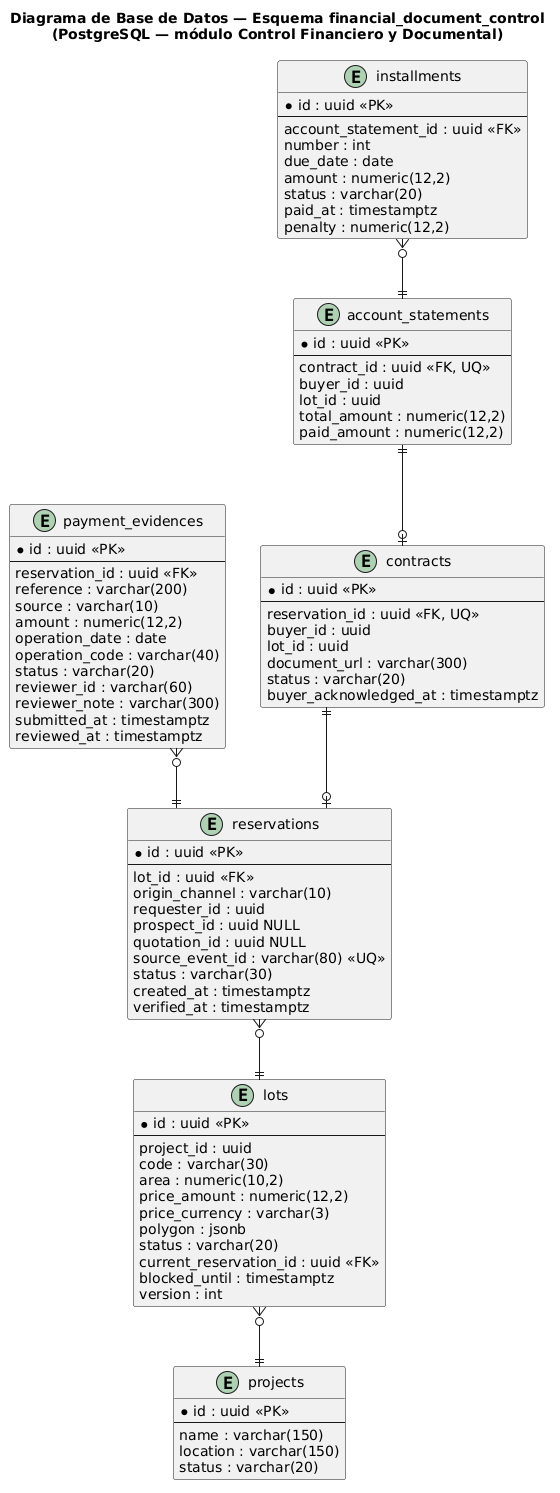
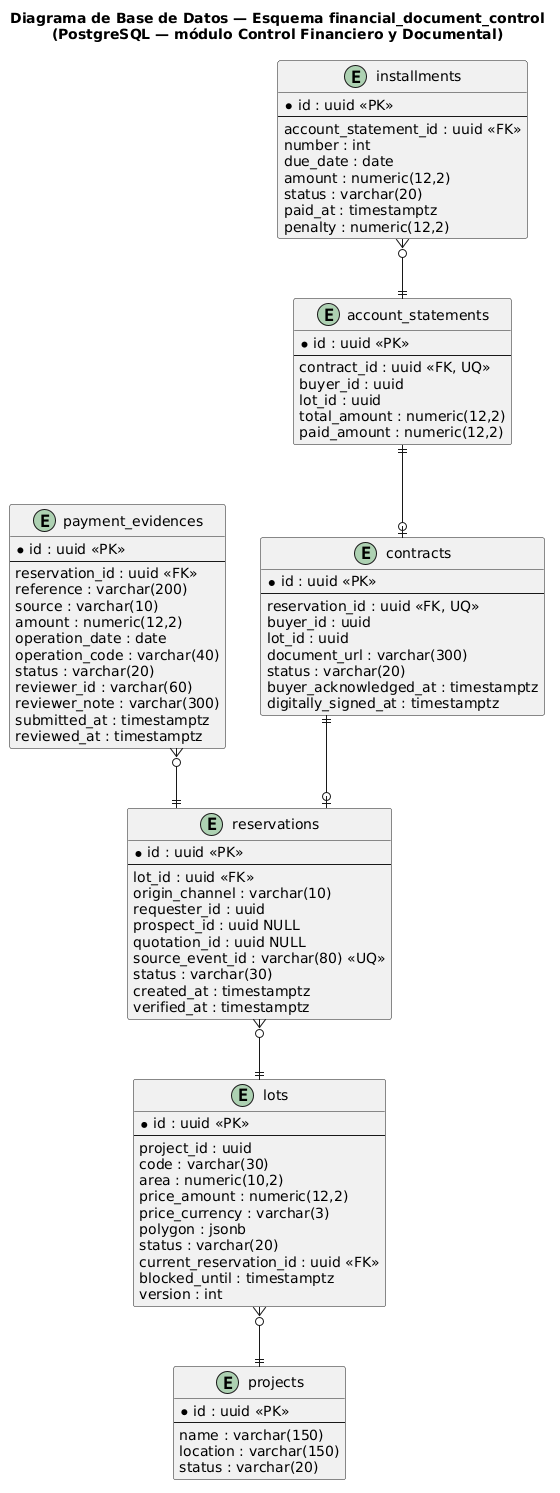
fix(chapter-02): separate preliminary buyer acknowledgment from qualified digital signature and add preventive due-date alert

Changed region(s): [[0.4554, 0.3389, 0.9714, 0.493]]

diff --git a/docs/Chapter-02.md b/docs/Chapter-02.md
@@ -910,7 +910,7 @@ Para organizar el alcance del sistema, las historias se han clasificado en las s
       <i>Escenario 2: Lote cancelado al 100%.</i><br><br>
       <b>Dado que</b> el usuario ha finalizado de pagar todas sus cuotas,<br>
       <b>Cuando</b> revisa su estado de cuenta,<br>
-      <b>Entonces</b> el sistema expone un indicador de saldo "0.00", llena el gráfico al 100% y cambia el estado del lote a "Cancelado".
+      <b>Entonces</b> el sistema expone un indicador de saldo "0.00", llena el gráfico al 100% y marca el estado de cuenta como "Liquidado" (la disponibilidad comercial del lote permanece en `SOLD`; la liquidación es un atributo del estado de cuenta, no del inventario).
   </td></tr>
 </table>
 
@@ -2453,7 +2453,7 @@ Su modelo gira en torno al agregado `Voucher`. Este agregado representa la evide
 | **VoucherCapturedEvent**, **OcrExtractionFailedEvent** | Domain Event | Hechos que el canal móvil registra. Disparan notificaciones en la UI para solicitar la intervención del agente si el OCR falla. | Identificadores del voucher, scores de confianza y fechas. |
 | **VoucherSyncedEvent** | Domain Event | Confirma que la evidencia, sin importar su canal de origen, está disponible en el servidor para verificación financiera, con los datos completos que Control Financiero y Documental necesita para contrastarla. Es el evento que consume `PaymentEvidenceReceivedEventHandler`. | Identificador del voucher, `operationId`, `channel`, `amount`, `operationDate`, `operationCode` y fecha. |
 
-Las reglas de negocio del canal FIELD se concentran en `Voucher.processOcr()`. Al invocar este método, se evalúa el `confidenceScore` retornado por el servicio de dominio OCR. Si la confianza es alta, el estado cambia a `EXTRACTED`. Si la foto es borrosa o el contraste es bajo (confianza menor al umbral), el estado cambia a `MANUAL_REVIEW_NEEDED`, lo que obliga al agente a invocar `applyManualFallback()` para sobrescribir los datos, añadiendo una bandera de auditoría que indica que los datos fueron alterados por intervención humana. El canal WEB no pasa por OCR: `Voucher.createFromWeb()` deja la evidencia directamente en `SYNCED`, porque el archivo ya llega digitalizado desde el portal y su verificación de contenido es responsabilidad de Control Financiero y Documental, no de este contexto.
+Las reglas de negocio del canal FIELD se concentran en `Voucher.processOcr()`. Al invocar este método, se evalúa el `confidenceScore` retornado por el servicio de dominio OCR. Si la confianza es alta, el estado cambia a `EXTRACTED`. Si la foto es borrosa o el contraste es bajo (confianza menor al umbral), el estado cambia a `MANUAL_REVIEW_NEEDED`, lo que obliga al agente a invocar `applyManualFallback()` para completar los datos manualmente (US-09). `applyManualFallback()` también puede invocarse sobre un voucher ya `EXTRACTED`, cuando el agente detecta que el OCR leyó mal un dígito pese a que la imagen era legible (US-10): en ambos casos se añade la misma bandera de auditoría que indica que los datos fueron alterados por intervención humana, distinguiendo así una recaptura por imagen ilegible de una simple corrección sobre una extracción exitosa. El canal WEB no pasa por OCR: `Voucher.createFromWeb()` deja la evidencia directamente en `SYNCED`, porque el archivo ya llega digitalizado desde el portal y su verificación de contenido es responsabilidad de Control Financiero y Documental, no de este contexto.
 
 #### 2.6.2.2. Interface Layer
 
@@ -2479,7 +2479,7 @@ En el móvil, la capa de aplicación coordina la captura, la invocación de la I
 | Clase | Tipo | Responsabilidad |
 | :--- | :--- | :--- |
 | **ProcessVoucherCommandHandler** | Command Handler | `handle(ProcessVoucherCommand)`: Valida la imagen, crea el agregado `Voucher`, invoca el servicio de compresión y dispara el procesamiento OCR local, persistiendo el resultado final. |
-| **ApplyFallbackCommandHandler** | Command Handler | `handle(ApplyFallbackCommand)`: Recupera un voucher en estado `MANUAL_REVIEW_NEEDED`, aplica los datos manuales del agente y lo deja listo para sincronizar. |
+| **ApplyFallbackCommandHandler** | Command Handler | `handle(ApplyFallbackCommand)`: Recupera un voucher en estado `MANUAL_REVIEW_NEEDED` o `EXTRACTED` —el primero cuando el OCR no pudo leer la imagen (confianza baja), el segundo cuando sí extrajo datos pero el agente detecta un dígito erróneo (US-10)—, aplica los datos manuales del agente, agrega la bandera de auditoría y lo deja listo para sincronizar.
 | **ImageUploadSyncService** | App Service | Servicio en segundo plano que escucha la recuperación de red. Para cada voucher local en `SYNCED` (ya procesado por OCR o corregido manualmente), sube la imagen comprimida a S3 mediante URL pre-firmada o *multipart/form-data*, y luego envía sus metadatos (`amount`, `operationDate`, `operationCode`, la referencia del archivo y si fue corregido manualmente) en un solo lote a `FieldVoucherSyncController`, consistente con el envío por lotes de US-32. |
 | **VoucherCapturedEventHandler** | Event Handler | Escucha el evento de creación local e instruye a la interfaz gráfica a mostrar el loader de "Extrayendo datos...". |
 | **ReceiveWebVoucherCommandHandler** | Command Handler | `handle(ReceiveWebVoucherCommand)`: crea el `Voucher` mediante `createFromWeb` con los datos declarados por el comprador, lo persiste en PostgreSQL y publica `VoucherSyncedEvent`. |
@@ -2583,7 +2583,7 @@ Cotización y Separación Digital es un contexto de soporte orientado al autoser
       <td><b>LotSnapshot</b></td>
       <td>Value Object</td>
       <td>Copia de solo lectura de los datos del lote y del proyecto, obtenida desde Control Financiero y Documental para exhibir el catálogo o correr una simulación. No es la fuente de verdad de la disponibilidad.</td>
-      <td>lotId, projectId, code, area, price, location, availableAtQueryTime.</td>
+      <td>lotId, projectId, code, area, price, location, availableAtQueryTime, isSold.</td>
     </tr>
     <tr>
       <td><b>SeparationStatus</b></td>
@@ -2687,7 +2687,7 @@ Las reglas de negocio del canvas quedan repartidas así: el rechazo de una cuota
     <tr>
       <td><b>CatalogQueryServiceImpl</b></td>
       <td>Query Service</td>
-      <td>Resuelve GetProjectsQuery y GetLotsQuery leyendo LotSnapshot a través de LotAvailabilityService; marca como "Vendido Totalmente" un proyecto cuando el 100% de sus lotes no está disponible.</td>
+      <td>Resuelve GetProjectsQuery y GetLotsQuery leyendo LotSnapshot a través de LotAvailabilityService; marca como "Vendido Totalmente" un proyecto solo cuando el 100% de sus lotes tiene `isSold = true` (US-15), distinguiendo esa condición de la disponibilidad general: un proyecto con lotes `BLOCKED` o `PENDING_VERIFICATION` sigue sin aparecer como agotado, porque esas separaciones aún pueden caer y liberar el lote.</td>
     </tr>
     <tr>
       <td><b>QuotationCommandServiceImpl</b></td>
@@ -2812,13 +2812,13 @@ Control Financiero y Documental es el contexto que sostiene la trazabilidad post
       <td><b>Contract</b></td>
       <td>Aggregate Root</td>
       <td>Contrato preliminar de compra-venta y sus anexos, emitidos por el back-office tras la verificación financiera.</td>
-      <td>id, reservationId, buyerId, lotId, documentUrl, annexes, status, buyerAcknowledgedAt. issue(documentUrl, annexes), registerBuyerAcknowledgment(timestamp), isAvailableToBuyer().</td>
+      <td>id, reservationId, buyerId, lotId, documentUrl, annexes, status, buyerAcknowledgedAt, digitallySignedAt. issue(documentUrl, annexes), registerBuyerAcknowledgment(timestamp), registerDigitalSignature(timestamp), isAvailableToBuyer().</td>
     </tr>
     <tr>
       <td><b>AccountStatement</b></td>
       <td>Aggregate Root</td>
       <td>Estado de cuenta consolidado de un comprador para un lote, con el cronograma real de cuotas y su avance de pago.</td>
-      <td>id, contractId, buyerId, lotId, totalAmount, paidAmount, installments. generate(contract, financingPlan), registerInstallmentPayment(installmentNumber, amount, paidAt), markOverdueInstallments(asOfDate), balance(), progressPercentage(), isFullyPaid().</td>
+      <td>id, contractId, buyerId, lotId, totalAmount, paidAmount, installments. generate(contract, financingPlan), registerInstallmentPayment(installmentNumber, amount, paidAt), notifyUpcomingInstallments(asOfDate), markOverdueInstallments(asOfDate), balance(), progressPercentage(), isFullyPaid().</td>
     </tr>
     <tr>
       <td><b>Installment</b></td>
@@ -2863,10 +2863,10 @@ Control Financiero y Documental es el contexto que sostiene la trazabilidad post
       <td>findById, findAvailableByFilters, existsBySourceEventId, findByBuyerId, findAll, save.</td>
     </tr>
     <tr>
-      <td><b>OnboardProjectFromCatalogCommand,<br>ActivateProjectCommand,<br>OnboardLotFromCatalogCommand,<br>BlockLotCommand,<br>ReleaseExpiredBlocksCommand,<br>SyncFieldRecordsCommand,<br>VerifyPaymentCommand,<br>RejectPaymentCommand,<br>ResubmitPaymentEvidenceCommand,<br>IssueContractCommand,<br>RegisterBuyerAcknowledgmentCommand,<br>RegisterInstallmentPaymentCommand,<br>MarkOverdueInstallmentsCommand</b></td>
+      <td><b>OnboardProjectFromCatalogCommand,<br>ActivateProjectCommand,<br>OnboardLotFromCatalogCommand,<br>BlockLotCommand,<br>ReleaseExpiredBlocksCommand,<br>SyncFieldRecordsCommand,<br>VerifyPaymentCommand,<br>RejectPaymentCommand,<br>ResubmitPaymentEvidenceCommand,<br>IssueContractCommand,<br>RegisterBuyerAcknowledgmentCommand,<br>RegisterDigitalSignatureCommand,<br>RegisterInstallmentPaymentCommand,<br>NotifyUpcomingInstallmentsCommand,<br>MarkOverdueInstallmentsCommand</b></td>
       <td>Command</td>
-      <td>Intenciones de cambio sobre la proyección de proyectos, sobre el inventario (su alta, disponibilidad y expiración), la sincronización de campo, la verificación financiera (incluido el reenvío de evidencia tras un rechazo), la emisión contractual y el seguimiento de pagos.</td>
-      <td>Los datos necesarios por comando: id, name, location; projectId; projectId, code, area, price y polygon; lotId y vigencia; (sin datos, job periódico); arreglo de prospectos pendientes y arreglo de reservas pendientes (lote único); evidenceId y decisión; reservationId y nueva evidencia; documentUrl y anexos; timestamp; installmentNumber y monto; fecha de corte.</td>
+      <td>Intenciones de cambio sobre la proyección de proyectos, sobre el inventario (su alta, disponibilidad y expiración), la sincronización de campo, la verificación financiera (incluido el reenvío de evidencia tras un rechazo), la emisión contractual (conformidad preliminar y firma legal como hechos independientes) y el seguimiento de pagos (alerta preventiva y mora como jobs independientes).</td>
+      <td>Los datos necesarios por comando: id, name, location; projectId; projectId, code, area, price y polygon; lotId y vigencia; (sin datos, job periódico); arreglo de prospectos pendientes y arreglo de reservas pendientes (lote único); evidenceId y decisión; reservationId y nueva evidencia; documentUrl y anexos; timestamp; timestamp; installmentNumber y monto; (sin datos, job periódico); fecha de corte.</td>
     </tr>
     <tr>
       <td><b>FindLotsQuery,<br>GetLotAvailabilityQuery,<br>GetPendingVerificationsQuery,<br>GetContractQuery,<br>GetAccountStatementQuery,<br>GetPaymentHistoryQuery</b></td>
@@ -2875,10 +2875,10 @@ Control Financiero y Documental es el contexto que sostiene la trazabilidad post
       <td>filters; lotId; buyerId; contractId; accountStatementId.</td>
     </tr>
     <tr>
-      <td><b>LotAwaitingFinancialVerificationEvent,<br>ContractIssuedEvent,<br>InstallmentOverdueEvent</b></td>
+      <td><b>LotAwaitingFinancialVerificationEvent,<br>ContractIssuedEvent,<br>InstallmentDueSoonEvent,<br>InstallmentOverdueEvent</b></td>
       <td>Domain Event</td>
-      <td>Los tres eventos declarados en el Bounded Context Canvas y visibles para el Comprador e Inversionista.</td>
-      <td>reservationId/lotId; contractId; installmentNumber, dueDate.</td>
+      <td>Los eventos declarados en el Bounded Context Canvas y visibles para el Comprador e Inversionista. InstallmentDueSoonEvent (alerta preventiva, 5 días antes del vencimiento) e InstallmentOverdueEvent (mora) son hechos independientes publicados por jobs diarios distintos: el primero no suprime ni retrasa al segundo.</td>
+      <td>reservationId/lotId; contractId; installmentNumber, dueDate; installmentNumber, dueDate.</td>
     </tr>
     <tr>
       <td><b>FieldRecordsSynchronizedEvent,<br>LotConflictDetectedEvent</b></td>
@@ -2887,10 +2887,10 @@ Control Financiero y Documental es el contexto que sostiene la trazabilidad post
       <td>reservationId, lotId, occurredAt.</td>
     </tr>
     <tr>
-      <td><b>PaymentVerifiedEvent,<br>PaymentRejectedEvent,<br>ReservationExpiredEvent,<br>ContractAcknowledgedEvent,<br>InstallmentPaidEvent,<br>LotFullyPaidEvent</b></td>
+      <td><b>PaymentVerifiedEvent,<br>PaymentRejectedEvent,<br>ReservationExpiredEvent,<br>ContractAcknowledgedEvent,<br>ContractDigitallySignedEvent,<br>InstallmentPaidEvent,<br>LotFullyPaidEvent</b></td>
       <td>Domain Event</td>
-      <td>Eventos internos sin consumidores externos declarados; se conservan para auditoría y para que AccountStatement y Lot reaccionen entre sí dentro del mismo contexto. PaymentRejectedEvent habilita en pantalla el botón de sustituto (US-25); ReservationExpiredEvent libera el lote y notifica al canal de origen que el bloqueo venció.</td>
-      <td>lotId/reservationId; reservationId, reason; reservationId, lotId; contractId; installmentNumber, amount; lotId, fullyPaidAt.</td>
+      <td>Eventos internos sin consumidores externos declarados; se conservan para auditoría y para que AccountStatement y Lot reaccionen entre sí dentro del mismo contexto. PaymentRejectedEvent habilita en pantalla el botón de sustituto (US-25); ReservationExpiredEvent libera el lote y notifica al canal de origen que el bloqueo venció. ContractAcknowledgedEvent (checkbox preliminar, US-22) y ContractDigitallySignedEvent (callback del proveedor de firma, US-30) son hechos independientes: el segundo no depende del primero ni lo reemplaza.</td>
+      <td>lotId/reservationId; reservationId, reason; reservationId, lotId; contractId; contractId; installmentNumber, amount; lotId, fullyPaidAt.</td>
     </tr>
   </tbody>
 </table>
@@ -2898,6 +2898,8 @@ Control Financiero y Documental es el contexto que sostiene la trazabilidad post
 `Reservation.resolveBuyerId()` resuelve de forma distinta según el canal: en una reserva `WEB`, el comprador ya existe como tal, así que retorna directamente `requesterId`. En una reserva `FIELD`, no existe una cuenta de comprador formal —el agente nunca exige al prospecto crear una (eso es exclusivo del canal web, US-14)—, así que el método usa `prospectId` como la identidad del comprador: el prospecto sincronizado se convierte en comprador en el momento en que su pago es verificado, sin paso intermedio. `ContractCommandServiceImpl` invoca este método al emitir el `Contract`, en vez de asumir que `requesterId` siempre es un `buyerId` válido.
 
 Para separaciones `WEB`, `quotationId` viaja desde `SeparationRequest` hasta `Reservation` a través de `blockLot()`. Cuando `AccountStatementServiceImpl` necesita generar el `AccountStatement` de un contrato emitido, usa ese `quotationId` para obtener el cronograma originalmente simulado: `FinancingPlanServiceImpl` (Infrastructure Layer) lo recupera en el mismo proceso desde el `QuotationSnapshotPort` que expone Cotización y Separación Digital, y lo traduce a los `Installment` propios de este contexto. Para separaciones `FIELD`, que no pasan por una simulación previa, `AccountStatement.generate()` recibe en su lugar el plan acordado manualmente por el agente y validado durante la verificación financiera.
+
+El seguimiento de cuotas corre con dos jobs diarios independientes, no uno solo: `NotifyUpcomingInstallmentsCommand` revisa qué `Installment` en estado `PENDING` vence dentro de los próximos 5 días y publica `InstallmentDueSoonEvent` (US-24, Escenario 1) para que el dashboard web resalte la cuota próxima a vencer y `AmazonSesEmailAdapter` despache el recordatorio; por separado, `MarkOverdueInstallmentsCommand` revisa las que ya vencieron sin pago y publica `InstallmentOverdueEvent` (US-24, Escenario 2). Una cuota puede recibir ambos eventos en momentos distintos de su ciclo de vida: la alerta preventiva nunca reemplaza ni retrasa la clasificación como vencida si el pago no llega a tiempo.
 
 El ciclo de vida de `Lot.blockedUntil` y el de `Reservation` quedan cerrados con tres reglas. Primero, la expiración es activa, no pasiva: un job periódico ejecuta `ReleaseExpiredBlocksCommand`, que busca los `Lot` en `BLOCKED` cuyo `blockedUntil` ya venció, invoca `Lot.releaseExpiredBlock()` —dejándolo `AVAILABLE` de nuevo— y `Reservation.expire()` sobre la reserva asociada, publicando `ReservationExpiredEvent`. Segundo, si el comprobante llega después de que la reserva ya expiró o fue cancelada por conflicto, `PaymentEvidenceReceivedEventHandler` igual conserva la evidencia para auditoría, pero no reabre la reserva ni reactiva el lote: el caso queda marcado para revisión manual del back-office, porque el lote ya pudo haber sido tomado por otro comprador. Tercero, cuando el back-office rechaza un comprobante, `handle(RejectPaymentCommand)` mueve la `Reservation` a `REJECTED` y publica `PaymentRejectedEvent`, lo que habilita en pantalla el botón de sustituto (US-25); al llegar un nuevo comprobante para esa misma reserva, `PaymentEvidenceReceivedEventHandler` invoca `Reservation.resubmitEvidence(evidence)` en lugar de `attachEvidence(evidence)`, devolviéndola a `PENDING_VERIFICATION` sin perder el historial de evidencias previas.
 
@@ -2973,12 +2975,12 @@ El endpoint `GET /api/v1/field-sync/catalog` es distinto de `GET /api/v1/project
     <tr>
       <td><b>ContractCommandServiceImpl</b></td>
       <td>Command Service</td>
-      <td>handle(IssueContractCommand): resuelve el buyerId con Reservation.resolveBuyerId(), emite el Contract tras la verificación financiera y publica ContractIssuedEvent. handle(RegisterBuyerAcknowledgmentCommand): registra la conformidad del comprador y publica ContractAcknowledgedEvent.</td>
+      <td>handle(IssueContractCommand): resuelve el buyerId con Reservation.resolveBuyerId(), emite el Contract tras la verificación financiera y publica ContractIssuedEvent. handle(RegisterBuyerAcknowledgmentCommand): registra la conformidad preliminar del comprador (checkbox, US-22) y publica ContractAcknowledgedEvent. handle(RegisterDigitalSignatureCommand): registra la firma legal confirmada por el proveedor externo (US-30) y publica ContractDigitallySignedEvent, como un hecho independiente de la conformidad preliminar.</td>
     </tr>
     <tr>
       <td><b>AccountStatementServiceImpl</b></td>
       <td>Command/Query Service</td>
-      <td>Genera el AccountStatement a partir del financingPlan correspondiente: para contratos de canal WEB lo obtiene de FinancingPlanServiceImpl a partir del quotationId de la reserva; para canal FIELD usa el plan acordado y validado durante la verificación financiera. handle(RegisterInstallmentPaymentCommand): registra el pago de una cuota y publica InstallmentPaidEvent, marcando LotFullyPaidEvent cuando corresponde. handle(MarkOverdueInstallmentsCommand): job diario que evalúa la fecha de corte y publica InstallmentOverdueEvent. Resuelve GetAccountStatementQuery y GetPaymentHistoryQuery.</td>
+      <td>Genera el AccountStatement a partir del financingPlan correspondiente: para contratos de canal WEB lo obtiene de FinancingPlanServiceImpl a partir del quotationId de la reserva; para canal FIELD usa el plan acordado y validado durante la verificación financiera. handle(RegisterInstallmentPaymentCommand): registra el pago de una cuota y publica InstallmentPaidEvent, marcando LotFullyPaidEvent cuando corresponde. handle(NotifyUpcomingInstallmentsCommand): job diario independiente que evalúa qué installments vencen dentro de los próximos 5 días y publica InstallmentDueSoonEvent por cada uno. handle(MarkOverdueInstallmentsCommand): job diario que evalúa la fecha de corte y publica InstallmentOverdueEvent. Resuelve GetAccountStatementQuery y GetPaymentHistoryQuery.</td>
     </tr>
     <tr>
       <td><b>LotQueryServiceImpl,<br>LotBlockingServiceImpl,<br>LotCatalogSyncServiceImpl</b></td>
@@ -3038,12 +3040,12 @@ El endpoint `GET /api/v1/field-sync/catalog` es distinto de `GET /api/v1/project
     <tr>
       <td><b>ElectronicSignatureServiceImpl</b></td>
       <td>Adaptador ACL</td>
-      <td>Recibe el webhook firmado del proveedor de firma electrónica y lo traduce en el registro de conformidad del comprador sobre el contrato.</td>
+      <td>Recibe el webhook de "Firmado exitosamente" del proveedor de firma electrónica (US-30) y lo traduce en RegisterDigitalSignatureCommand sobre digitallySignedAt, sin tocar buyerAcknowledgedAt: la firma legal cualificada y la conformidad preliminar del comprador son registros independientes.</td>
     </tr>
     <tr>
       <td><b>AmazonSesEmailAdapter</b></td>
       <td>Adaptador Conformist</td>
-      <td>Envía las alertas de vencimiento de cuota (InstallmentOverdueEvent) por correo electrónico a través de Amazon SES.</td>
+      <td>Envía por correo electrónico, a través de Amazon SES, tanto el recordatorio preventivo (InstallmentDueSoonEvent, US-24 Escenario 1) como la alerta de mora (InstallmentOverdueEvent, US-24 Escenario 2).</td>
     </tr>
   </tbody>
 </table>
